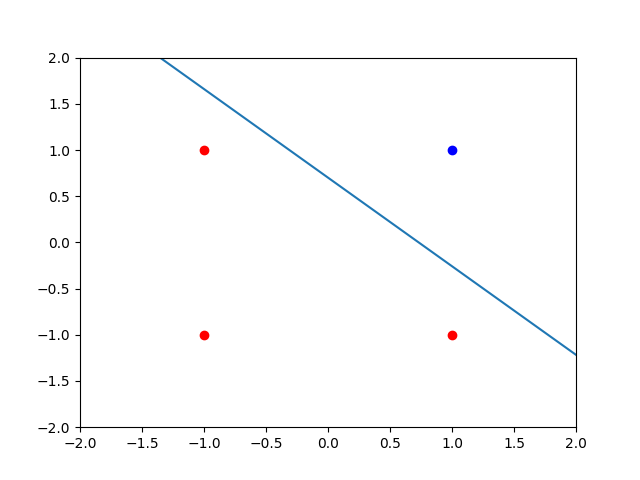
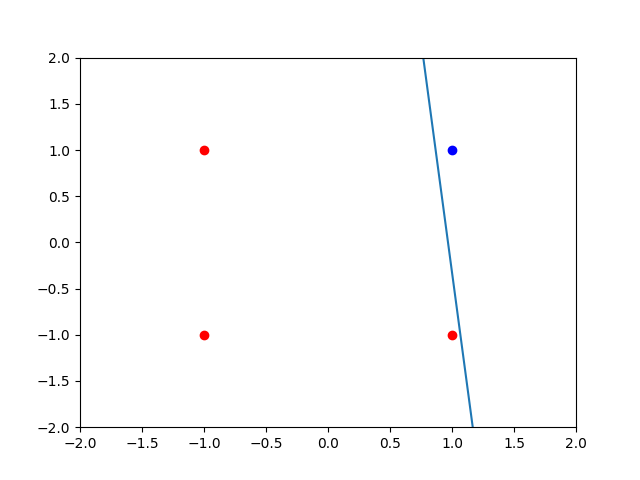
hotfix: Ej1 graphs

diff --git a/tp3/ej1/ej1.py b/tp3/ej1/ej1.py
@@ -21,9 +21,11 @@ def plot_result(w0, w1, w2, graph_points, colors, saving_file):
     plt.savefig(saving_file)
 
 
-def plot_error(errors, filename):
+def plot_error(errors, filename, step, x_label):
     plt.clf()
-    plt.scatter(range(len(errors)), errors)
+    plt.plot(range(len(errors[::step])), errors[::step])
+    plt.xlabel(x_label)
+    plt.ylabel("Error")
     plt.savefig(filename)
 
 
@@ -33,8 +35,10 @@ if __name__ == '__main__':
     points_colors = [and_colors, or_colors]
     save_files = ["./and_result.png", "./or_result.png"]
     error_files = ["./and_error.png", "./or_error.png"]
+    steps = [1, 1000]
+    x_labels = ['Epocas', 'Epocas (miles)']
 
-    for file, color, save_file, error_file in zip(config_files, points_colors, save_files, error_files):
+    for file, color, save_file, error_file, step, error_x_label in zip(config_files, points_colors, save_files, error_files, steps, x_labels):
         config = JsonReader(file)
         points = config.points
         expected = config.expected
@@ -43,10 +47,10 @@ if __name__ == '__main__':
             points,
             config.activation_method,
             expected,
-            0.1, 0.1, update_method=config.update_method
+            0.00000000001, 0.1, update_method=config.update_method
         )
         perceptron.train()
         plot_result(perceptron.weights_by_layer[0][0][0], perceptron.weights_by_layer[0][0][1],
                     perceptron.weights_by_layer[0][0][2], points, color, save_file)
-        plot_error(perceptron.error_by_iteration, error_file)
+        plot_error(perceptron.error_by_iteration, error_file, step, error_x_label)
 
